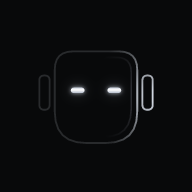
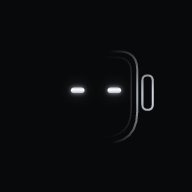
Show only the lit right edge of the mark at small sizes (#16)
The faint full outline gave away the whole helmet in the header and
icons, which undid the hidden-face idea. Header, favicon and home-screen
icons now show just the eyes and the right edge, with that edge slightly
heavier so it holds at 16px.

diff --git a/src/components/site/botlane-mark.tsx b/src/components/site/botlane-mark.tsx
@@ -5,7 +5,7 @@ import { cn } from "@/lib/utils"
 const SHELL = "M4.8 7.2L4.89 6.22L5.16 5.42L5.6 4.8L6.22 4.36L7.02 4.09L8 4L16 4L16.98 4.09L17.78 4.36L18.4 4.8L18.84 5.42L19.11 6.22L19.2 7.2L19.2 14.5L19.05 16.18L18.59 17.56L17.83 18.63L16.76 19.39L15.38 19.85L13.7 20L10.3 20L8.62 19.85L7.24 19.39L6.18 18.63L5.41 17.56L4.95 16.18L4.8 14.5Z M2.1 9.1L2.13 8.82L2.2 8.6L2.33 8.43L2.5 8.3L2.73 8.23L3 8.2L3 8.2L3.28 8.23L3.5 8.3L3.68 8.42L3.8 8.6L3.88 8.82L3.9 9.1L3.9 13.3L3.88 13.58L3.8 13.8L3.68 13.97L3.5 14.1L3.28 14.18L3 14.2L3 14.2L2.73 14.18L2.5 14.1L2.33 13.97L2.2 13.8L2.13 13.58L2.1 13.3Z M20.1 9.1L20.13 8.82L20.2 8.6L20.33 8.42L20.5 8.3L20.73 8.23L21 8.2L21 8.2L21.28 8.23L21.5 8.3L21.67 8.42L21.8 8.6L21.88 8.82L21.9 9.1L21.9 13.3L21.88 13.58L21.8 13.8L21.67 13.98L21.5 14.1L21.28 14.18L21 14.2L21 14.2L20.73 14.18L20.5 14.1L20.33 13.97L20.2 13.8L20.13 13.58L20.1 13.3Z"
 const CREASE = "M5.85 7.62L5.92 6.83L6.14 6.19L6.49 5.69L6.99 5.34L7.63 5.12L8.42 5.05L15.58 5.05L16.37 5.12L17.01 5.34L17.51 5.69L17.86 6.19L18.08 6.83L18.15 7.62L18.15 14.08L18.01 15.57L17.61 16.79L16.93 17.73L15.99 18.41L14.77 18.81L13.28 18.95L10.72 18.95L9.23 18.81L8.01 18.41L7.07 17.73L6.39 16.79L5.99 15.57L5.85 14.08Z"
 const EYES = {
-  // Optical sizes: at header and icon sizes the eyes are thicker so they survive, and a faint full outline holds the shape.
+  // Optical sizes: at header and icon sizes the eyes are thicker so they survive.
   small: { d: "M8.25 10.15h1.1a0.65 0.65 0 0 1 0 1.3h-1.1a0.65 0.65 0 0 1 0 -1.3Z M14.65 10.15h1.1a0.65 0.65 0 0 1 0 1.3h-1.1a0.65 0.65 0 0 1 0 -1.3Z", y: [10.15, 11.45] },
   large: { d: "M7.9 10.5h1.8a0.3 0.3 0 0 1 0 0.6h-1.8a0.3 0.3 0 0 1 0 -0.6Z M14.3 10.5h1.8a0.3 0.3 0 0 1 0 0.6h-1.8a0.3 0.3 0 0 1 0 -0.6Z", y: [10.5, 11.1] },
 } as const
@@ -35,10 +35,9 @@ export function BotlaneMark({ size = 24, id = "botlane-mark", className }: { siz
         </filter>
       </defs>
       <g fill="none" strokeLinejoin="round" strokeLinecap="round" style={{ stroke: "var(--mark-rim)" }}>
-        {small && <path d={SHELL} strokeWidth={1} vectorEffect="non-scaling-stroke" opacity={0.3} />}
         <g mask={`url(#${id}-rim)`}>
           {!small && <path d={CREASE} strokeWidth={1} vectorEffect="non-scaling-stroke" style={{ stroke: "var(--mark-crease)" }} />}
-          <path d={SHELL} strokeWidth={1} vectorEffect="non-scaling-stroke" />
+          <path d={SHELL} strokeWidth={small ? 1.25 : 1} vectorEffect="non-scaling-stroke" />
         </g>
       </g>
       <path d={eyes.d} filter={`url(#${id}-glow)`} style={{ fill: "var(--mark-eye-edge)", opacity: "var(--mark-glow)" }} />
